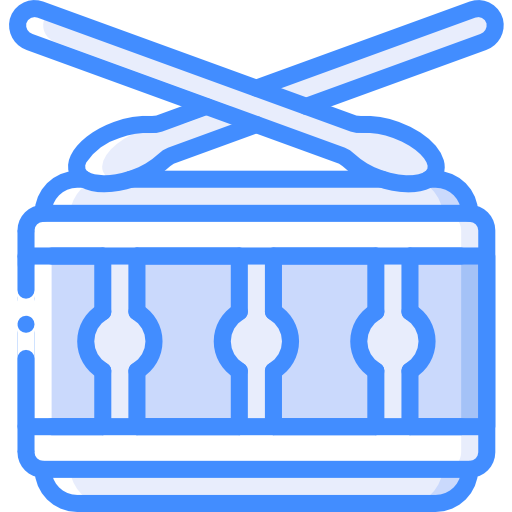
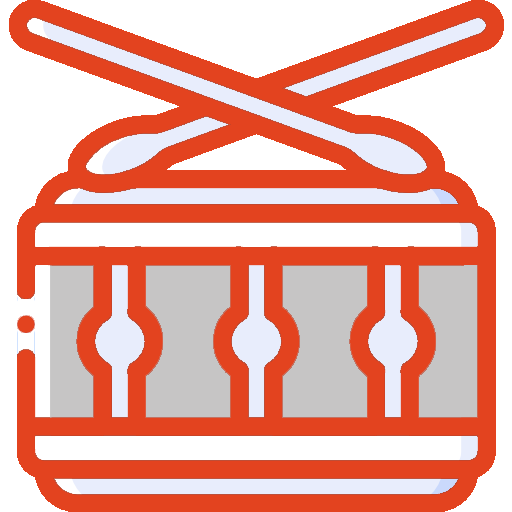
oui

diff --git a/CSS_login.css b/CSS_login.css
@@ -74,6 +74,14 @@ video#mavideo {
     margin-left: 10px;
     width:80%;
 }
+#nouv_partie2{
+    background-color: rgba(0, 0, 0, 0.25);  
+    width:100%;
+}
+#nouv_partie2_1{
+    height:70%;
+
+}
 #progression{
     height:350px;
     background-color: rgba(0, 0, 0, 0.418);
@@ -81,8 +89,8 @@ video#mavideo {
     width:80%;
 }
 #progression2{
-    height:250px;
-    background-color: rgba(0, 0, 0, 0.418);  
+    height:56%;
+    background-color: rgba(0, 0, 0, 0.25);  
     width:100%;
 }
 #scores{
@@ -144,5 +152,5 @@ hr
 }
 #drum
 {
-    margin-top: 20px;
+    margin-top: 30px;
 }

diff --git a/test.php b/test.php
@@ -17,12 +17,18 @@ require_once "includes/header.php";
     <div class = "row justify-content-between">
         <div class="col-3" id="nouv_partie">
             <h1 class = "titre_home">Nouvelle parti'tion</h1>
+            <div id = "nouv_partie2_1" class = "row justify-content-center">
+                <div class = "col-10" id = "nouv_partie2">
+                <p> Introduction au jeu </p>
+                </div>
+            </div>
             <div class = "row justify-content-center">
+                
                 <div class = "col-4">
                 <button class="btn btn-dark" style="text-align:center" type="submit">Règles</button>
                 </div>
                 <div class = "col-6">
-                <button id = 'play' class='btn btn-dark' style='text-align:center' type='submit'>Lancer partie</button>
+                <a href = "create_team.php"><button id = 'play' class='btn btn-dark' style='text-align:center' type='submit'>Lancer partie</button></a>
                 </div>
                 
             </div>
@@ -41,15 +47,13 @@ require_once "includes/header.php";
             <div id='progression2'>
             <div class = 'row justify-content-around'>
                 <div class = 'col-2'>
-                    <img id = 'drum' src='images/drum.png' alt ='drum' height ='120' width = '120' >
+                    <img id = 'drum' src='images/drum_v1.png' alt ='drum' height ='120' width = '120' >
                 </div>
                 <div class = 'col-8'>
                     <p class = 'texte_nouv_part'> Tu n'as pas encore créé de partie!<br/> Réunis tes amis et venez tous ensemble découvrir l'histoire de la musique à travers différentes époques ! </p>
                 </div>
                 
-                <div class = 'col-9'>
-                    <p class = 'texte_nouv_part_suit'> Clique et commence l'aventure !
-                </div>
+                
             </div>
             </div>
         </div>"
